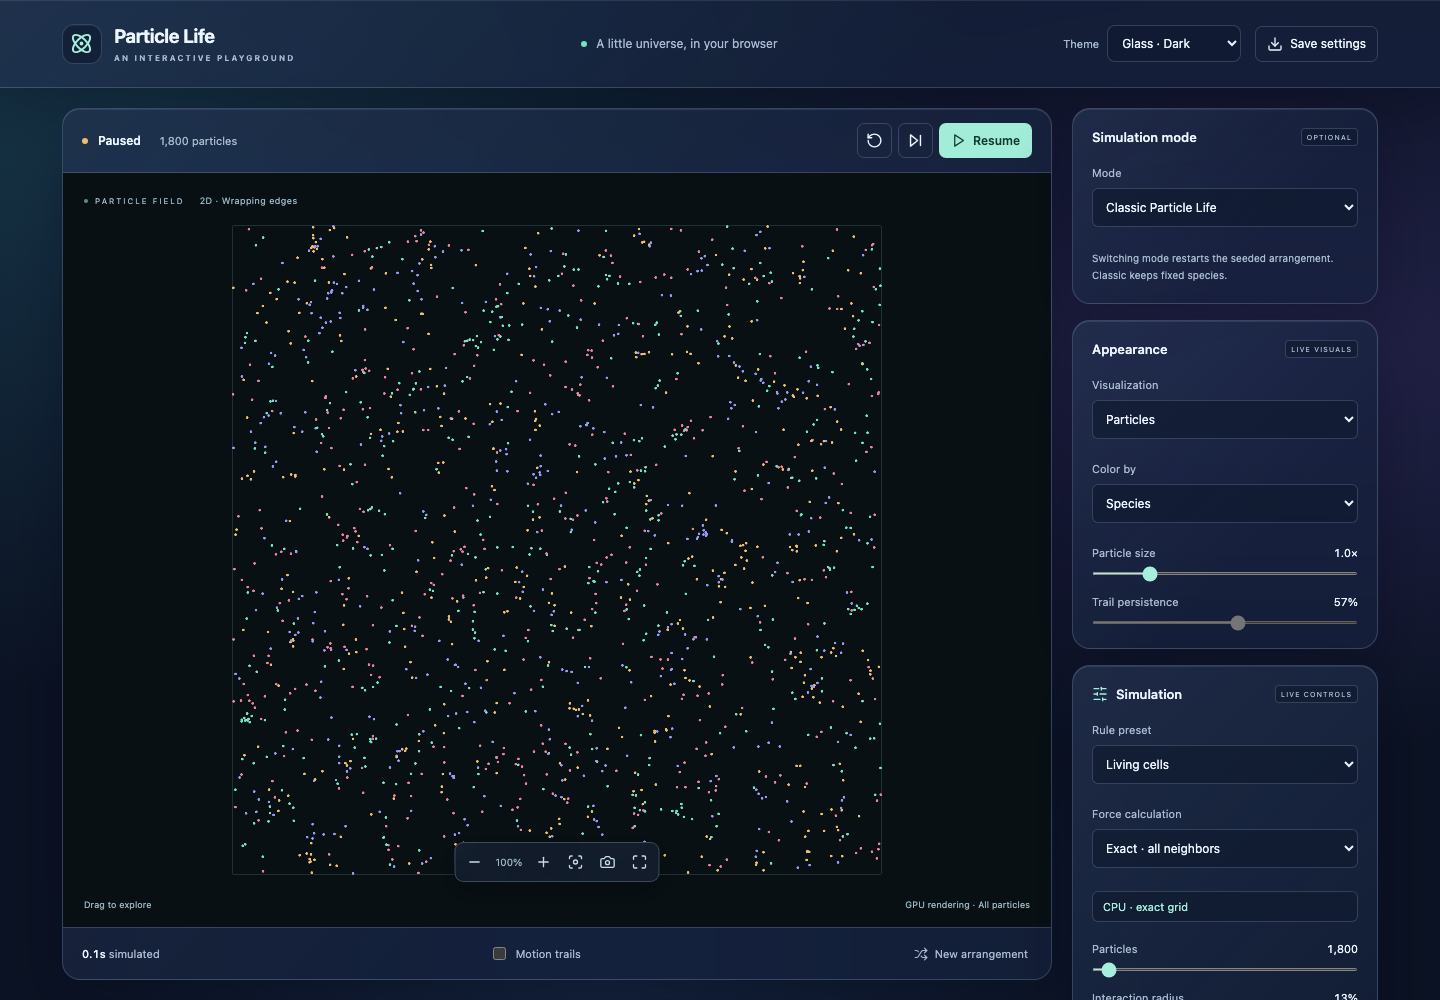
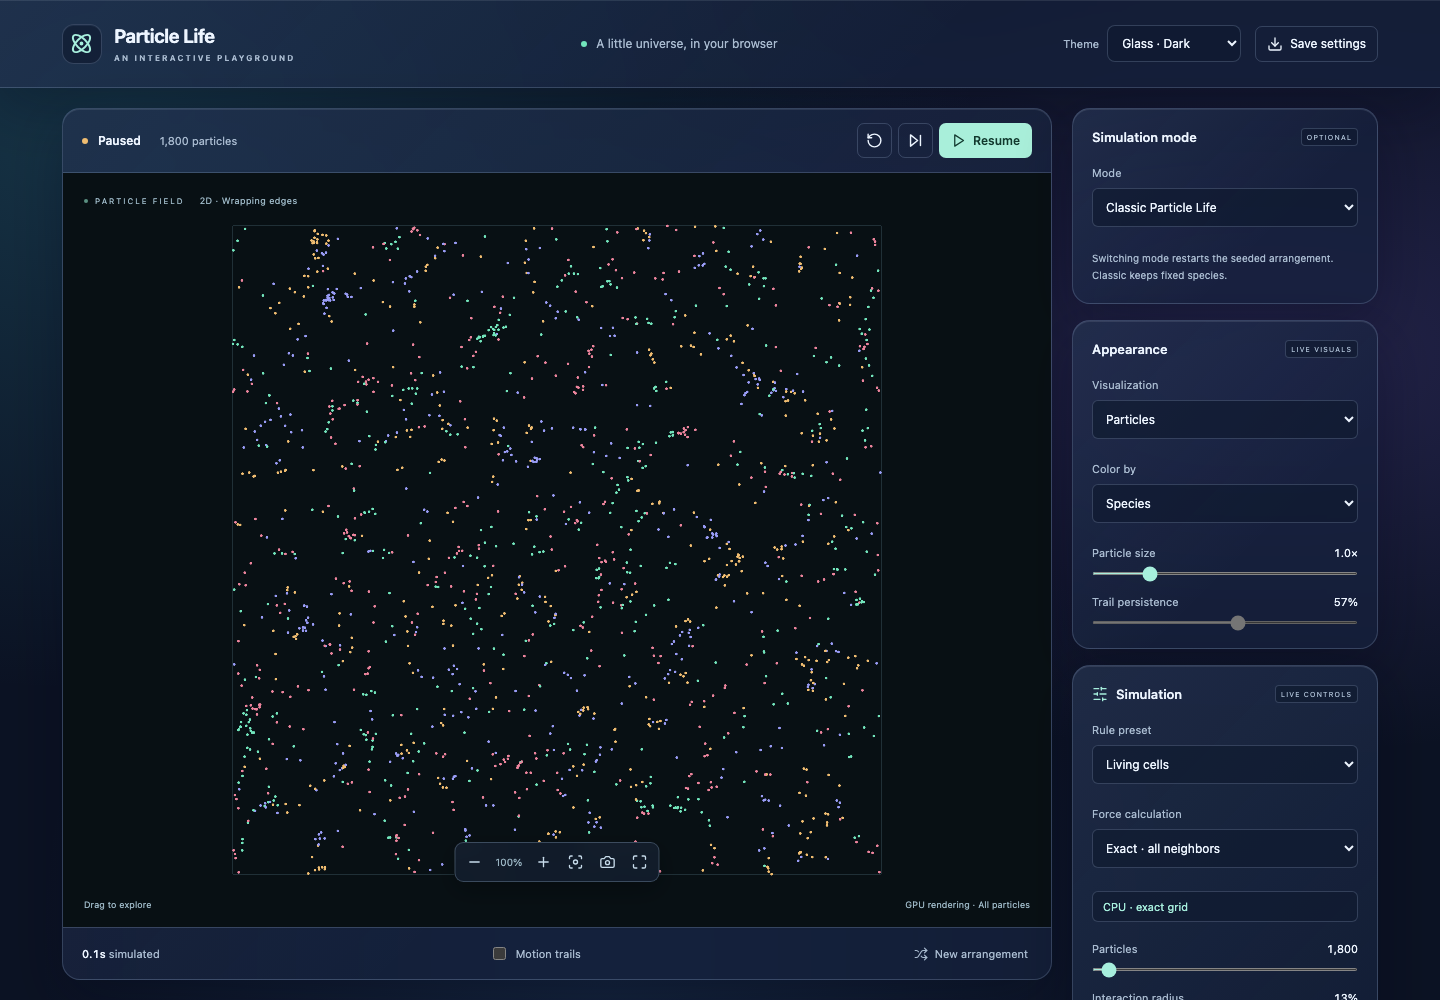
Fix flaky theme test: wait for stable sim time after pause

diff --git a/tests/e2e/themes.spec.ts b/tests/e2e/themes.spec.ts
@@ -6,7 +6,17 @@ test("glass themes switch live, fit mobile and round-trip settings", async ({
   await page.setViewportSize({ width: 1440, height: 1000 });
   await page.goto("/");
   await page.getByRole("button", { name: "Pause", exact: true }).click();
-  const time = await page.locator(".simulation-bottom b").textContent();
+  // The worker may deliver one last update after pausing; wait until the time is stable.
+  const clock = page.locator(".simulation-bottom b");
+  let time = await clock.textContent();
+  await expect
+    .poll(async () => {
+      const previous = time;
+      await page.waitForTimeout(250);
+      time = await clock.textContent();
+      return time === previous;
+    })
+    .toBe(true);
   const theme = page.getByLabel("Interface theme", { exact: true });
   await expect(theme).toHaveValue("classic");
   for (const value of ["glass-dark", "glass-light"]) {
